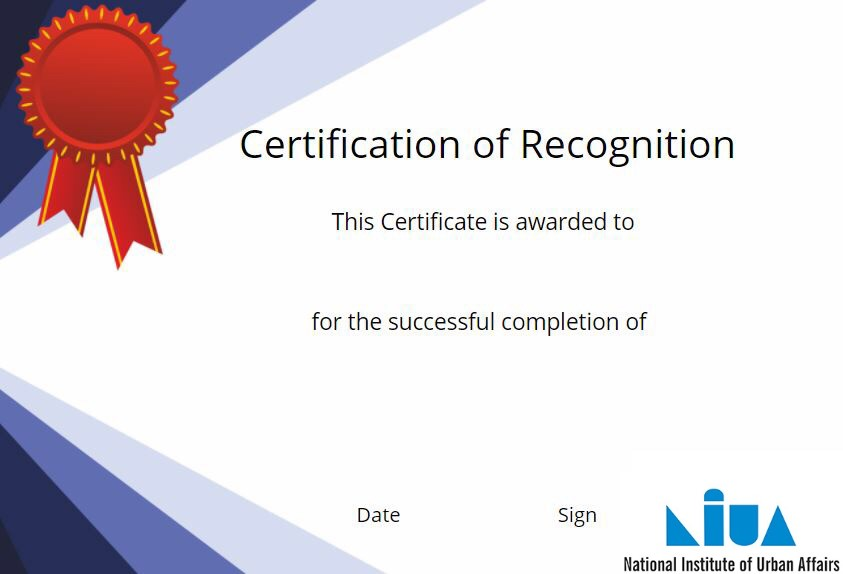
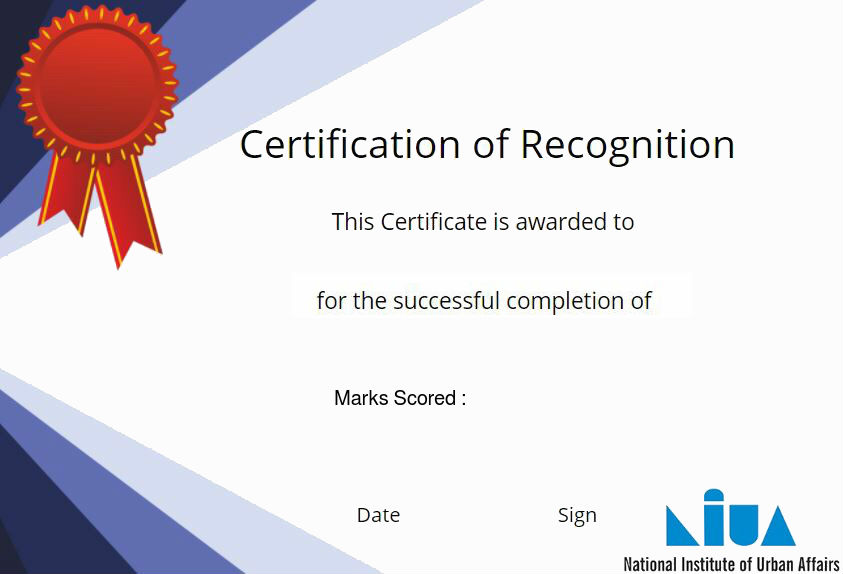
Score integrated in certificate

Changed region(s): [[0.3701, 0.5035, 0.7711, 0.5923], [0.4009, 0.6812, 0.5552, 0.7108]]

diff --git a/src/app/helpers/pdfCreator/pdfCreator.js b/src/app/helpers/pdfCreator/pdfCreator.js
@@ -153,6 +153,7 @@ function createPDF (data, filePath, callback) {
     var instructor = data.instructor || certificateInstructor
     var courseCompletionDate = getCertificateDate(data.createdDate || new Date())
     var courseName = data.courseName
+    var marksScored = data.marks.scoredMarks + ' / ' +  data.marks.maxMarks
 
     var doc = new PDFDocument({ autoFirstPage: false })
 
@@ -166,8 +167,10 @@ function createPDF (data, filePath, callback) {
       width: 700
     })
 
-    doc.font('Helvetica-Bold').fontSize(15).text(title + ' ' + name, 200, 293, { align: 'center' })
-    doc.font('Helvetica-Bold').fontSize(15).text(courseName, 200, 376, { align: 'center' })
+    doc.font('Helvetica-Bold').fontSize(15).text(title + ' ' + name, 200, 275, { align: 'center' })
+    doc.font('Helvetica-Bold').fontSize(15).text(courseName, 200, 347, { align: 'center' })
+    doc.font('Helvetica-Bold').fontSize(15).text(marksScored, 230, 398, { align: 'center' })
+    
     if(platformName) {
       doc.font('Helvetica').fontSize(15).text(platformName, 200, 416, { align: 'center' })
     }
@@ -204,17 +207,18 @@ function createCertificate (req, res) {
     rspObj.responseCode = 'CLIENT_ERROR'
     return res.status(400).send(errorResponse(rspObj))
   }
-
+console.log('data in pdfCreator===>', data);
   const userId = data.userId
   const courseId = data.courseId
   const courseName = data.courseName
+  const marks = data.marks
   // Create file name with course name and courseId and courseName date
   const fileName = courseName + '-' + userId + '-' + courseId + '.pdf'
   // Create local file path
    const filePath = path.join(__dirname, fileName)
   //const filePath = path.join('C:\projects\Tarento\pdfdoc', fileName)
   // Create destination path (Azure bucket path)
-  var destPath = path.join('course_certificate', fileName)
+  var destPath = path.join('course_certificates', fileName)
   async.waterfall([
     function (CB) {
       
@@ -223,10 +227,12 @@ function createCertificate (req, res) {
           console.log('err to download file, Now create pdf and upload', JSON.stringify(err))
           CB()
         } else {
-          console.log('User have certificate')
+         
+
           rspObj.result = { fileUrl: envVariables.AZURE_STORAGE_URL + containerName + '/' + destPath }
+           console.log('User have certificate', rspObj)
           return res.status(200).send(successResponse(rspObj))
-        }
+        }        
       })
     },
     function (CB) {
@@ -239,9 +245,6 @@ function createCertificate (req, res) {
           return res.status(500).send(errorResponse(rspObj))
         } else {
           console.log(filePath)
-    //       rspObj.result = { fileUrl: filePath }
-    // //   
-    //         return res.status(200).send(successResponse(rspObj))
           CB()
         }
       })

diff --git a/src/app/client/src/app/modules/learn/components/course-consumption/course-consumption-header/course-consumption-header.component.ts b/src/app/client/src/app/modules/learn/components/course-consumption/course-consumption-header/course-consumption-header.component.ts
@@ -12,6 +12,7 @@ import {
 } from '@sunbird/shared';
 import { IInteractEventObject, IInteractEventEdata } from '@sunbird/telemetry';
 import { CertificateDownloadService } from './../../../../core/services/certificate/certificate-download.service';
+import { CourseBatchService } from './../../../services/course-batch/course-batch.service';
 import { ConfigService, IUserProfile, IUserData } from '@sunbird/shared';
 import { Subscription } from 'rxjs';
 @Component({
@@ -63,7 +64,8 @@ export class CourseConsumptionHeaderComponent implements OnInit, AfterViewInit, 
     public resourceService: ResourceService, private router: Router, public permissionService: PermissionService,
     public toasterService: ToasterService, public copyContentService: CopyContentService, private changeDetectorRef: ChangeDetectorRef,
     private courseProgressService: CourseProgressService, public contentUtilsServiceService: ContentUtilsServiceService,
-    public externalUrlPreviewService: ExternalUrlPreviewService, public coursesService: CoursesService, private userService: UserService, private certificateDownloadService: CertificateDownloadService) {
+    public externalUrlPreviewService: ExternalUrlPreviewService, public coursesService: CoursesService, private userService: UserService, 
+    private certificateDownloadService: CertificateDownloadService, public courseBatchService: CourseBatchService) {
       this.userName  =  this.userService.userProfile.userName;
     this.userId = this.userService.userid;
 
@@ -180,11 +182,11 @@ export class CourseConsumptionHeaderComponent implements OnInit, AfterViewInit, 
     this.unsubscribe.complete();
   }
   downloadCertificate () {
-    this.certificateDownloadService.downloadAsPdf(this.title, this.fullName, this.userId, this.courseId, this.courseHierarchy.name).subscribe((res:Response)=>{ 
-      
-      this.fileUrl = res['result']['fileUrl'];
+    const marks = this.courseBatchService.returnMarks();
+    this.certificateDownloadService.downloadAsPdf(this.title, this.fullName, this.userId, this.courseId, this.courseHierarchy.name, marks).subscribe((res:Response)=>{ 
+      this.fileUrl = res['result']['fileUrl'];    
       console.log(this.fileUrl)
-      window.open(this.fileUrl, '_blank');
+      window.open(this.fileUrl, '_blank');       
     })   
   }
 }

diff --git a/src/app/client/src/app/modules/learn/components/course-consumption/course-player/course-player.component.ts b/src/app/client/src/app/modules/learn/components/course-consumption/course-player/course-player.component.ts
@@ -354,11 +354,11 @@ export class CoursePlayerComponent implements OnInit, OnDestroy {
     if (eid === 'END') {
       this.showRatingModal = true;
       setTimeout(() => {
-        // const totalScore =  window.PI.totalScore;
-        // console.log('totalScore', totalScore);
-        localStorage.getItem('totalScore');
         console.log('totalScore=======>', localStorage.getItem('totalScore'));
       }, 10);
+      if(localStorage.getItem('totalScore') !== '') {
+         this.courseBatchService.scoredMarks(localStorage.getItem('totalScore'), localStorage.getItem('maxScore'));
+      }
     }
 
     if (this.batchId && this.enrolledBatchInfo && this.enrolledBatchInfo.status === 1) {

diff --git a/src/app/client/src/app/modules/core/services/certificate/certificate-download.service.ts b/src/app/client/src/app/modules/core/services/certificate/certificate-download.service.ts
@@ -8,14 +8,15 @@ export class CertificateDownloadService {
 
   constructor(private http:HttpClient) { }
 
-  public downloadAsPdf(title:string, userName:string, userId, courseId, courseName) {
+  public downloadAsPdf(title:string, userName:string, userId, courseId, courseName, marks) {
     return this.http.post('/certificate/v1/course/download',{
       "request":{
         "title":' ',
       "name":userName,
       "courseName":courseName,
       "userId": userId,
-      "courseId": courseId
+      "courseId": courseId, 
+      "marks": marks
       } 
     })
   }

diff --git a/src/app/client/src/app/modules/learn/services/course-batch/course-batch.service.ts b/src/app/client/src/app/modules/learn/services/course-batch/course-batch.service.ts
@@ -134,4 +134,16 @@ export class CourseBatchService {
       }));
     }
   }
+
+  private marksData = {};  
+ 
+  scoredMarks(scoredMarks, maxMarks){
+    this.marksData= {
+      'scoredMarks' : scoredMarks,
+      'maxMarks': maxMarks       
+  }
+  }
+  returnMarks(){
+    return this.marksData;
+  }
 }

diff --git a/src/app/sunbird-plugins/renderer/org.sunbird.iframeEvent-1.0/renderer/plugin.js b/src/app/sunbird-plugins/renderer/org.sunbird.iframeEvent-1.0/renderer/plugin.js
@@ -52,6 +52,7 @@ Plugin.extend({
             window.org.ekstep.totalScore = totalScore;
             window.org.ekstep.maxScore = maxScore; // Store
             localStorage.setItem("totalScore", totalScore);
+            localStorage.setItem("maxScore", maxScore);
         } 
     }
 });
